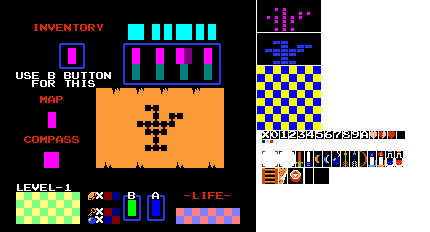
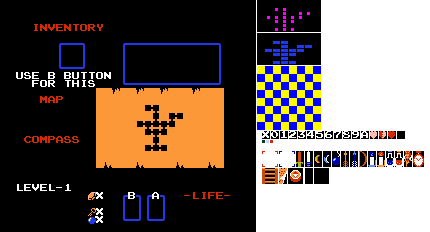
updated inventory sprite sheet, work on reducing complexity of room generator, implement item counts, draw cursor

diff --git a/Inventory/InventoryController.cs b/Inventory/InventoryController.cs
@@ -99,58 +99,64 @@ namespace Sprint2_Attempt3.Inventory
             { '6', new Rectangle(325, 131, 8, 8) },
             { '7', new Rectangle(334, 131, 8, 8) },
             { '8', new Rectangle(343, 131, 8, 8) },
-            { '9', new Rectangle(352, 131, 8, 8) }
+            { '9', new Rectangle(352, 131, 8, 8) },
+            { ' ', blackSrcRectangle }
         };
+
+        private static Rectangle[] DigitDestRectangles = new Rectangle[]
+        {
+            new Rectangle(destRectangle.X + 326, destRectangle.Y + 581, 26, 26),
+            new Rectangle(destRectangle.X + 352, destRectangle.Y + 581, 26, 26),
+            new Rectangle(destRectangle.X + 326, destRectangle.Y + 629, 26, 26),
+            new Rectangle(destRectangle.X + 352, destRectangle.Y + 629, 26, 26),
+            new Rectangle(destRectangle.X + 326, destRectangle.Y + 655, 26, 26),
+            new Rectangle(destRectangle.X + 352, destRectangle.Y + 655, 26, 26)
+        };
+
         private static Rectangle ItemBDestRectangle = new Rectangle(destRectangle.X + 401, destRectangle.Y + 606, 26, 49);
         private static Rectangle ItemADestRectangle = new Rectangle(destRectangle.X + 477, destRectangle.Y + 606, 26, 49);
         private static Rectangle ItemSelectedDestRectangle = new Rectangle(destRectangle.X + 212, destRectangle.Y + 145, 26, 49);
         private static Rectangle DungeonMapDestRectangle = new Rectangle(destRectangle.X + 50, destRectangle.Y + 582, 201, 97);
-        private static Rectangle RupeeDigit1 = new Rectangle(destRectangle.X + 326, destRectangle.Y + 581, 26, 26);
-        private static Rectangle RupeeDigit2 = new Rectangle(destRectangle.X + 352, destRectangle.Y + 581, 26, 26);
+        private static Rectangle CursorDestRectangle = new Rectangle(destRectangle.X + 402, destRectangle.Y + 145, 49, 49);
 
-        private static Rectangle KeyDigit1 = new Rectangle(destRectangle.X + 326, destRectangle.Y + 629, 26, 26);
-        private static Rectangle KeyDigit2 = new Rectangle(destRectangle.X + 352, destRectangle.Y + 629, 26, 26);
-        private static Rectangle BombDigit1 = new Rectangle(destRectangle.X + 326, destRectangle.Y + 655, 26, 26);
-        private static Rectangle BombDigit2 = new Rectangle(destRectangle.X + 352, destRectangle.Y + 655, 26, 26);
-
-        private static Rectangle DungeonMapSrcRectangle = new Rectangle(257, 34, 63, 31);
-        private static Rectangle DungeonLayoutSrcRectangle = new Rectangle(257, 0, 63, 31);
+        private static Rectangle DungeonMapSrcRectangle = new Rectangle(258, 34, 62, 30);
 
         private static Rectangle blackSrcRectangle = new Rectangle(315,170, 10,10);
         
         private static Rectangle ArrowSrcRectangle = new Rectangle(341, 151, 8, 15);
-        private static Rectangle BlueArrowSrcRectangle = new Rectangle(350, 151, 8, 15);
-        private static Rectangle BlueCandleSrcRectangle = new Rectangle(367, 151, 10, 15);
+        private static Rectangle BlueCandleSrcRectangle = new Rectangle(368, 151, 8, 15);
         private static Rectangle BluePotionSrcRectangle = new Rectangle(386, 151, 8, 15);
         private static Rectangle BombSrcRectangle = new Rectangle(332, 151, 8, 15);
         private static Rectangle BoomerangSrcRectangle = new Rectangle(314, 151, 8, 15);
         private static Rectangle BowSrcRectangle = new Rectangle(359, 151, 8, 16);
-        private static Rectangle ClockSrcRectangle = new Rectangle(341, 151, 8, 15);
+        private static Rectangle ClockSrcRectangle = new Rectangle(413, 151, 11, 16);
         private static Rectangle CompassSrcRectangle = new Rectangle(288, 168, 14, 15);
-        private static Rectangle FairySrcRectangle = new Rectangle(341, 151, 8, 15);
+        private static Rectangle FairySrcRectangle = new Rectangle(404, 151, 8, 15);
         private static Rectangle EmptyHeartSrcRectangle = new Rectangle(370, 131, 8, 8);
         private static Rectangle HalfHeartSrcRectangle = new Rectangle(379, 131, 8, 8);
         private static Rectangle FullHeartSrcRectangle = new Rectangle(388, 131, 8, 8);
         private static Rectangle MapSrcRectangle = new Rectangle(279, 168, 8, 15);
+        private static Rectangle CursorSrcRectangle = new Rectangle(262, 151, 16, 16);
 
-        private static Rectangle ArrowDestRectangle = new Rectangle(destRectangle.X + 551, destRectangle.Y + 145, 26, 49);
-        private static Rectangle BlueArrowDestRectangle = new Rectangle(destRectangle.X + 577, destRectangle.Y + 145, 26, 49);
-        private static Rectangle BlueCandleDestRectangle = new Rectangle(destRectangle.X + 638, destRectangle.Y + 145, 29, 49);
-        private static Rectangle BluePotionDestRectangle = new Rectangle(destRectangle.X + 565, destRectangle.Y + 194, 27, 49);
-        private static Rectangle BombDestRectangle = new Rectangle(destRectangle.X + 489, destRectangle.Y + 145, 26, 49);
+
         private static Rectangle BoomerangDestRectangle = new Rectangle(destRectangle.X + 415, destRectangle.Y + 145, 26, 49);
-        private static Rectangle BowDestRectangle = new Rectangle(destRectangle.X + 415, destRectangle.Y + 194, 26, 49);
-        private static Rectangle ClockDestRectangle = new Rectangle(destRectangle.X + 489, destRectangle.Y + 195, 26, 49);
-        private static Rectangle CompassDestRectangle = new Rectangle(destRectangle.X + 138, destRectangle.Y + 460, 47, 49);
-        private static Rectangle FairyDestRectangle = new Rectangle(destRectangle.X + 639, destRectangle.Y + 194, 26, 49);
+        private static Rectangle BombDestRectangle = new Rectangle(destRectangle.X + 489, destRectangle.Y + 145, 26, 49);
+        private static Rectangle ArrowDestRectangle = new Rectangle(destRectangle.X + 563, destRectangle.Y + 145, 26, 49);
+        private static Rectangle BlueCandleDestRectangle = new Rectangle(destRectangle.X + 638, destRectangle.Y + 145, 29, 49);
+
+        private static Rectangle BowDestRectangle = new Rectangle(destRectangle.X + 415, destRectangle.Y + 196, 26, 49);
+        private static Rectangle ClockDestRectangle = new Rectangle(destRectangle.X + 488, destRectangle.Y + 196, 28, 49);
+        private static Rectangle BluePotionDestRectangle = new Rectangle(destRectangle.X + 563, destRectangle.Y + 196, 27, 49);
+        private static Rectangle FairyDestRectangle = new Rectangle(destRectangle.X + 639, destRectangle.Y + 196, 26, 49);
+        
         private static Rectangle MapDestRectangle = new Rectangle(destRectangle.X + 150, destRectangle.Y + 339, 26, 49);
+        private static Rectangle CompassDestRectangle = new Rectangle(destRectangle.X + 138, destRectangle.Y + 460, 47, 49);
         public InventoryController(Texture2D texture) {
             LinkItems = new Dictionary<string, InventoryItem>() {
                 { "Arrow", new InventoryItem(ArrowDestRectangle, ArrowSrcRectangle) },
-                { "BlueArrow", new InventoryItem(BlueArrowDestRectangle, BlueArrowSrcRectangle) },
                 { "BlueCandle", new InventoryItem(BlueCandleDestRectangle, BlueCandleSrcRectangle) },
                 { "BluePotion", new InventoryItem(BluePotionDestRectangle, BluePotionSrcRectangle) },
-                { "Bomb", new InventoryItem(BombDestRectangle, BombSrcRectangle, 28) },
+                { "Bomb", new InventoryItem(BombDestRectangle, BombSrcRectangle, 1) },
                 { "Boomerang", new InventoryItem(BoomerangDestRectangle, BoomerangSrcRectangle) },
                 { "Bow", new InventoryItem(BowDestRectangle, BowSrcRectangle) },
                 { "Clock", new InventoryItem(ClockDestRectangle, ClockSrcRectangle) },
@@ -158,12 +164,33 @@ namespace Sprint2_Attempt3.Inventory
                 { "Fairy", new InventoryItem(FairyDestRectangle, FairySrcRectangle) },
                 { "Heart", new InventoryItem(3.5f) },
                 { "HeartContainer", new InventoryItem(1) },
-                { "Key", new InventoryItem(16) },
+                { "Key", new InventoryItem(0) },
                 { "Map", new InventoryItem(MapDestRectangle, MapSrcRectangle) },
                 { "Rupee", new InventoryItem(35) },
                 { "TriforcePiece", new InventoryItem() }
             };
             this.texture = texture;
+        }
+
+        private static String UpdateItemCounts() {
+            String ItemsCount = LinkItems["Rupee"].count.ToString();
+            if (ItemsCount.Length % 2 != 0) {
+                ItemsCount += ' ';
+            }
+
+            ItemsCount += LinkItems["Key"].count.ToString();
+            if (ItemsCount.Length % 2 != 0)
+            {
+                ItemsCount += ' ';
+            }
+
+            ItemsCount += LinkItems["Bomb"].count.ToString();
+            if (ItemsCount.Length % 2 != 0)
+            {
+                ItemsCount += ' ';
+            }
+
+            return ItemsCount;
         }
 
         public static void IncrementCount(String item)
@@ -189,6 +216,82 @@ namespace Sprint2_Attempt3.Inventory
         public static float GetCount(String item)
         {
             return LinkItems[item].count;
+        }
+
+        public static void ShiftCursorRight() {
+            if (CursorDestRectangle.X < 627)
+                CursorDestRectangle.X += 75;
+        }
+        public static void ShiftCursorLeft()
+        {
+            if(CursorDestRectangle.X > 402)
+                CursorDestRectangle.X -= 75;
+        }
+        public static void ShiftCursorUp()
+        {
+            if (CursorDestRectangle.Y > 145)
+                CursorDestRectangle.Y -= 50;
+        }
+        public static void ShiftCursorDown()
+        {
+            if (CursorDestRectangle.Y < 195)
+                CursorDestRectangle.Y += 50;
+        }
+
+        public void ShiftUp() {
+            if (destRectangle.Y > -525)
+            {
+                destRectangle.Y--;
+                foreach (KeyValuePair<String, InventoryItem> item in LinkItems)
+                {
+                    item.Value.ShiftUp();
+                }
+
+                for (int i = 0; i < HeartBoxes.Length; i++)
+                {
+                    HeartBoxes[i].Y--;
+                }
+
+                for (int i = 0; i < DigitDestRectangles.Length; i++)
+                {
+                    DigitDestRectangles[i].Y--;
+                }
+
+                ItemBDestRectangle.Y--;
+                ItemADestRectangle.Y--;
+                ItemSelectedDestRectangle.Y--;
+                DungeonMapDestRectangle.Y--;
+                CursorDestRectangle.Y--;
+            }
+
+        }
+
+        public void DownUp()
+        {
+            if (destRectangle.Y < 12)
+            {
+                destRectangle.Y++;
+                foreach (KeyValuePair<String, InventoryItem> item in LinkItems)
+                {
+                    item.Value.ShiftDown();
+                }
+
+                for (int i = 0; i < HeartBoxes.Length; i++)
+                {
+                    HeartBoxes[i].Y++;
+                }
+
+                for (int i = 0; i < DigitDestRectangles.Length; i++)
+                {
+                    DigitDestRectangles[i].Y++;
+                }
+
+                ItemBDestRectangle.Y++;
+                ItemADestRectangle.Y++;
+                ItemSelectedDestRectangle.Y++;
+                DungeonMapDestRectangle.Y++;
+                CursorDestRectangle.Y++;
+            }
         }
 
         public void Draw(SpriteBatch spriteBatch) {
@@ -230,22 +333,19 @@ namespace Sprint2_Attempt3.Inventory
             //Draw Items A&B
             spriteBatch.Draw(texture, ItemBDestRectangle, BowSrcRectangle, Color.White);
             spriteBatch.Draw(texture, ItemADestRectangle, BowSrcRectangle, Color.White);
+            spriteBatch.Draw(texture, ItemSelectedDestRectangle, BoomerangSrcRectangle, Color.White);
 
             //draw layout
-            spriteBatch.Draw(texture, DungeonMapDestRectangle, DungeonLayoutSrcRectangle, Color.White);
+            spriteBatch.Draw(texture, DungeonMapDestRectangle, DungeonMapSrcRectangle, Color.White);
 
             //draw numbers
-            String rupeeCount = ((int)LinkItems["Rupee"].count).ToString();
-            spriteBatch.Draw(texture, RupeeDigit1, numberSrcRectangles[rupeeCount.ElementAt(0)], Color.White);
-            spriteBatch.Draw(texture, RupeeDigit2, numberSrcRectangles[rupeeCount.ElementAt(1)], Color.White);
-            
-            String KeyCount = ((int)LinkItems["Key"].count).ToString();
-            spriteBatch.Draw(texture, KeyDigit1, numberSrcRectangles[KeyCount.ElementAt(0)], Color.White);
-            spriteBatch.Draw(texture, KeyDigit2, numberSrcRectangles[KeyCount.ElementAt(1)], Color.White);
+            String number = UpdateItemCounts();
+            for (int i = 0; i < DigitDestRectangles.Length; i++) {
+                spriteBatch.Draw(texture, DigitDestRectangles[i], numberSrcRectangles[number.ElementAt(i)], Color.White);
+            }
 
-            String BombCount = ((int)LinkItems["Bomb"].count).ToString();
-            spriteBatch.Draw(texture, BombDigit1, numberSrcRectangles[BombCount.ElementAt(0)], Color.White);
-            spriteBatch.Draw(texture, BombDigit2, numberSrcRectangles[BombCount.ElementAt(1)], Color.White);
+            //draw cursor
+            spriteBatch.Draw(texture, CursorDestRectangle, CursorSrcRectangle, Color.White);
         }
     }
 }

diff --git a/Dungeon/RoomGenerator.cs b/Dungeon/RoomGenerator.cs
@@ -29,6 +29,8 @@ namespace Sprint2_Attempt3.Dungeon
 
         private static RoomGenerator instance = new RoomGenerator();
         private static String[] fileNames = new String[18];
+        private static Dictionary<String, Func<int, int, IEnemy>> AddEnemyFunctions = new Dictionary<string, Func<int, int, IEnemy>> {
+        };
 
         public static RoomGenerator Instance
         {
@@ -52,7 +54,7 @@ namespace Sprint2_Attempt3.Dungeon
             List<IGameObject> objectList = new List<IGameObject>();
 
             StreamReader sr = new StreamReader(fileNames[fileNumber]);
-            while (!sr.EndOfStream) { 
+            while (!sr.EndOfStream) {
                 var line = sr.ReadLine();
                 if (line != null)
                 {
@@ -83,7 +85,7 @@ namespace Sprint2_Attempt3.Dungeon
             IEnemy enemy = null;
             if (Enemy.Equals("Aquamentus"))
             {
-                enemy = new Aquamentus(x,y);
+                enemy = new Aquamentus(x, y);
             }
             else if (Enemy.Equals("Dodongo"))
             {
@@ -122,6 +124,10 @@ namespace Sprint2_Attempt3.Dungeon
                 enemy = new Zol(x, y);
             }
             return enemy;
+        }
+
+        public IEnemy AddKeese(int x, int y) {
+            return new Keese(x, y);
         }
 
         private IBlock GetBlock(String Block, int position)

diff --git a/Enemy/EnemySecondary.cs b/Enemy/EnemySecondary.cs
@@ -32,7 +32,6 @@ namespace Sprint2_Attempt3.Enemy
         public void Spawn()
         {
             State = new SpawnAnimationState(this);
-            //CollisionDetector.GameObjectList.Add(this);
         }
         public virtual void Kill()
         {
@@ -68,8 +67,6 @@ namespace Sprint2_Attempt3.Enemy
         public Rectangle GetHitBox() {
             return Position;
         }
-
-       // public IEnemyState GetEnemyState() { return State; }
 
         public abstract void MoveUp();
         public abstract void MoveDown();

diff --git a/Game1.cs b/Game1.cs
@@ -76,10 +76,10 @@ namespace Sprint2_Attempt3
 
         protected override void Draw(GameTime gameTime)
         {
-            GraphicsDevice.Clear(Color.CornflowerBlue);
+            GraphicsDevice.Clear(Color.Black);
 
             spriteBatch.Begin();
-            //room.Draw(spriteBatch);
+            room.Draw(spriteBatch);
             inventoryController.Draw(spriteBatch);
             spriteBatch.End();
             base.Draw(gameTime);

diff --git a/Enemy/IEnemy.cs b/Enemy/IEnemy.cs
@@ -22,6 +22,5 @@ namespace Sprint2_Attempt3.Enemy
         public void Kill();
         public void DropItem();
         public void Draw(SpriteBatch spriteBatch);
-        //public IEnemyState GetEnemyState();
     }
 }
